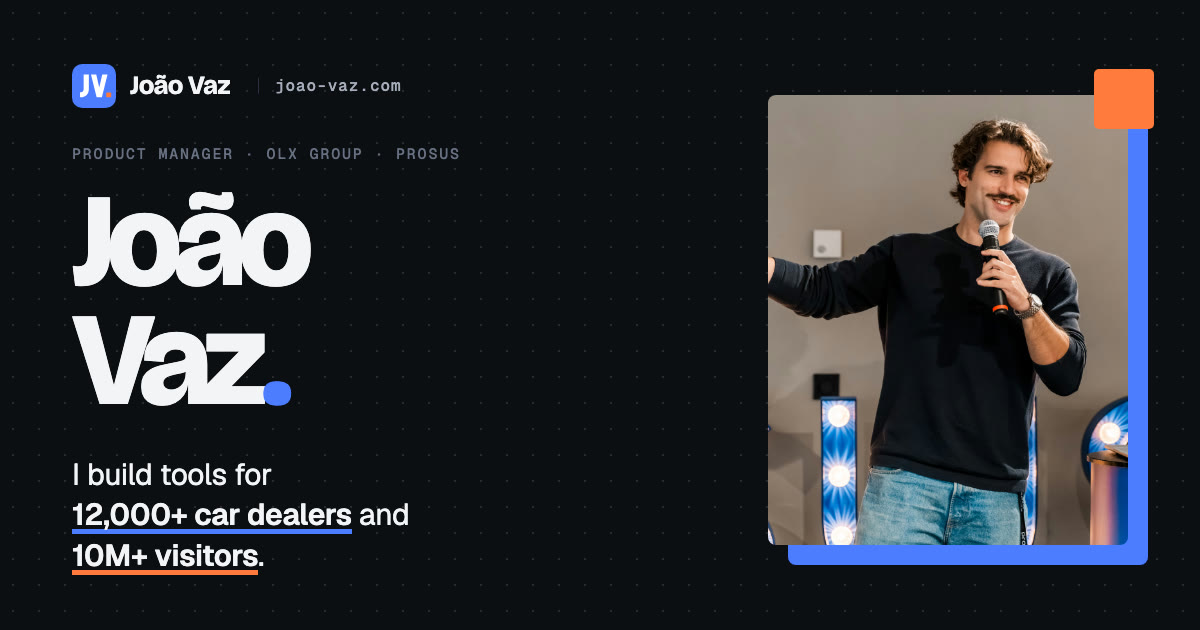
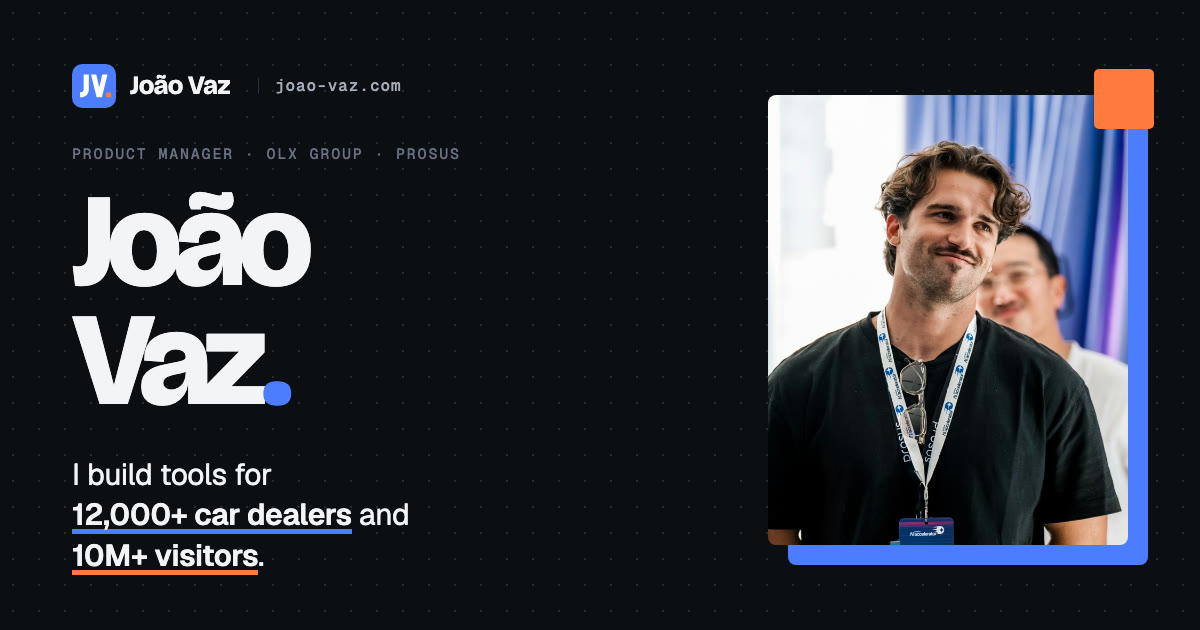
Bring back the portrait photo in the hero, the player card and the share card
The hero, the Side quests player card and og.jpg use assets/portrait.jpg
again instead of the stage photo. The hero caption drops "On stage".
Cache stamp 2026-10-26m.

Changed region(s): [[0.6167, 0.1508, 0.9558, 0.8746]]

diff --git a/index.html b/index.html
@@ -27,7 +27,7 @@
   <link rel="preconnect" href="https://fonts.googleapis.com" />
   <link rel="preconnect" href="https://fonts.gstatic.com" crossorigin />
   <link href="https://fonts.googleapis.com/css2?family=Bricolage+Grotesque:opsz,wght@12..96,500..800&family=Geist:wght@400;500;600&family=Geist+Mono:wght@400;500&display=swap" rel="stylesheet" />
-  <link rel="stylesheet" href="/home.css?v=2026-10-26l" />
+  <link rel="stylesheet" href="/home.css?v=2026-10-26m" />
   <!-- Motion is opt-in: every animated state is gated on .js, so the page
        renders finished if the scripts never run. -->
   <script>
@@ -117,9 +117,9 @@
         </div>
         <figure class="hero__photo rv">
           <div class="hero__frame">
-            <img src="/assets/joao-stage.jpg" alt="João Vaz on stage with a microphone at the Prosus AI Accelerator in Amsterdam" width="1120" height="1400" fetchpriority="high" />
+            <img src="/assets/portrait.jpg" alt="Portrait of João Vaz with a Prosus AI Accelerator lanyard" width="675" height="900" fetchpriority="high" />
           </div>
-          <figcaption class="meta">On stage · Prosus AI Accelerator · Amsterdam 2026</figcaption>
+          <figcaption class="meta">Prosus AI Accelerator · Amsterdam 2026</figcaption>
         </figure>
       </div>
 
@@ -539,7 +539,7 @@
       <h2 class="quests__title" id="quests-title">Side quests <em>for when the laptop closes.</em></h2>
 
       <div class="player">
-        <img class="player__img" src="/assets/joao-stage.jpg" alt="" width="1120" height="1400" loading="lazy" />
+        <img class="player__img" src="/assets/portrait.jpg" alt="" width="675" height="900" loading="lazy" />
         <div class="player__info">
           <p class="meta">Player one</p>
           <h3>João Vaz</h3>
@@ -672,7 +672,7 @@
     <span class="eggs" data-eggs hidden>Easter eggs found: <b>0</b> / 4</span>
   </footer>
 
-  <script src="/js/scroll.js?v=2026-10-26l"></script>
-  <script src="/js/home.js?v=2026-10-26l"></script>
+  <script src="/js/scroll.js?v=2026-10-26m"></script>
+  <script src="/js/home.js?v=2026-10-26m"></script>
 </body>
 </html>

diff --git a/pm-os/index.html b/pm-os/index.html
@@ -27,9 +27,9 @@
   <link rel="preconnect" href="https://fonts.googleapis.com" />
   <link rel="preconnect" href="https://fonts.gstatic.com" crossorigin />
   <link href="https://fonts.googleapis.com/css2?family=Bricolage+Grotesque:opsz,wght@12..96,500..800&family=Geist:wght@400;500;600&family=Geist+Mono:wght@400;500&display=swap" rel="stylesheet" />
-  <link rel="stylesheet" href="/home.css?v=2026-10-26l" />
-  <link rel="stylesheet" href="/project.css?v=2026-10-26l" />
-  <link rel="stylesheet" href="/pm-os.css?v=2026-10-26l" />
+  <link rel="stylesheet" href="/home.css?v=2026-10-26m" />
+  <link rel="stylesheet" href="/project.css?v=2026-10-26m" />
+  <link rel="stylesheet" href="/pm-os.css?v=2026-10-26m" />
   <script>
     document.documentElement.className += " js";
     /* the theme is set before the first paint: a saved choice, else the
@@ -306,8 +306,8 @@
     <span>PM-OS · a wiki that maintains itself</span>
     <span class="eggs" data-eggs hidden>Easter eggs found: <b>0</b> / 4</span>
   </footer>
-  <script src="/js/scroll.js?v=2026-10-26l"></script>
-  <script src="/js/home.js?v=2026-10-26l"></script>
-  <script src="/js/graph.js?v=2026-10-26l"></script>
+  <script src="/js/scroll.js?v=2026-10-26m"></script>
+  <script src="/js/home.js?v=2026-10-26m"></script>
+  <script src="/js/graph.js?v=2026-10-26m"></script>
 </body>
 </html>

diff --git a/team-context/index.html b/team-context/index.html
@@ -27,9 +27,9 @@
   <link rel="preconnect" href="https://fonts.googleapis.com" />
   <link rel="preconnect" href="https://fonts.gstatic.com" crossorigin />
   <link href="https://fonts.googleapis.com/css2?family=Bricolage+Grotesque:opsz,wght@12..96,500..800&family=Geist:wght@400;500;600&family=Geist+Mono:wght@400;500&display=swap" rel="stylesheet" />
-  <link rel="stylesheet" href="/home.css?v=2026-10-26l" />
-  <link rel="stylesheet" href="/project.css?v=2026-10-26l" />
-  <link rel="stylesheet" href="/team-context.css?v=2026-10-26l" />
+  <link rel="stylesheet" href="/home.css?v=2026-10-26m" />
+  <link rel="stylesheet" href="/project.css?v=2026-10-26m" />
+  <link rel="stylesheet" href="/team-context.css?v=2026-10-26m" />
   <script>
     document.documentElement.className += " js";
     /* the theme is set before the first paint: a saved choice, else the
@@ -228,7 +228,7 @@
     <span>Team-context MCP · read-only by design</span>
     <span class="eggs" data-eggs hidden>Easter eggs found: <b>0</b> / 4</span>
   </footer>
-  <script src="/js/scroll.js?v=2026-10-26l"></script>
-  <script src="/js/home.js?v=2026-10-26l"></script>
+  <script src="/js/scroll.js?v=2026-10-26m"></script>
+  <script src="/js/home.js?v=2026-10-26m"></script>
 </body>
 </html>

diff --git a/tabiya/index.html b/tabiya/index.html
@@ -27,9 +27,9 @@
   <link rel="preconnect" href="https://fonts.googleapis.com" />
   <link rel="preconnect" href="https://fonts.gstatic.com" crossorigin />
   <link href="https://fonts.googleapis.com/css2?family=Bricolage+Grotesque:opsz,wght@12..96,500..800&family=Geist:wght@400;500;600&family=Geist+Mono:wght@400;500&display=swap" rel="stylesheet" />
-  <link rel="stylesheet" href="/home.css?v=2026-10-26l" />
-  <link rel="stylesheet" href="/project.css?v=2026-10-26l" />
-  <link rel="stylesheet" href="/tabiya.css?v=2026-10-26l" />
+  <link rel="stylesheet" href="/home.css?v=2026-10-26m" />
+  <link rel="stylesheet" href="/project.css?v=2026-10-26m" />
+  <link rel="stylesheet" href="/tabiya.css?v=2026-10-26m" />
   <script>
     document.documentElement.className += " js";
     /* the theme is set before the first paint: a saved choice, else the
@@ -339,7 +339,7 @@
     <span>Tabiya · a chess coach that explains</span>
     <span class="eggs" data-eggs hidden>Easter eggs found: <b>0</b> / 4</span>
   </footer>
-  <script src="/js/scroll.js?v=2026-10-26l"></script>
-  <script src="/js/home.js?v=2026-10-26l"></script>
+  <script src="/js/scroll.js?v=2026-10-26m"></script>
+  <script src="/js/home.js?v=2026-10-26m"></script>
 </body>
 </html>

diff --git a/home.css b/home.css
@@ -1029,7 +1029,7 @@ html:has(.quests[open]) { overflow: hidden; }
   border: 1px solid var(--line);
   border-radius: 12px;
 }
-.player__img { width: 132px; height: 132px; object-fit: cover; object-position: 58% 16%; border-radius: 8px; }
+.player__img { width: 132px; height: 132px; object-fit: cover; object-position: 50% 20%; border-radius: 8px; }
 .player h3 { margin: 4px 0 10px; font-family: var(--display); font-weight: 700; font-size: 30px; letter-spacing: -0.04em; }
 .player__class { display: grid; gap: 4px; margin-bottom: 14px; }
 .player__class div { display: flex; gap: 10px; font-size: 14px; }

diff --git a/README.md b/README.md
@@ -247,8 +247,10 @@ dev-server.py     # no-cache static server for development
 `js/scroll.js` must load before any script that consumes `window.Scroll`. It builds `SECTION_IDS`
 from the page's own `data-nav` links, so each page declares its sections in its markup.
 
-`styles.css`, `js/ui.js`, `js/scene.js`, `js/icons.js`, `js/carousel.js` and `assets/portrait.jpg`
-belong to the older glass design. No page loads them any more.
+`styles.css`, `js/ui.js`, `js/scene.js`, `js/icons.js` and `js/carousel.js` belong to the older
+glass design. No page loads them any more. The photo of me is `assets/portrait.jpg` (the hero, the
+Side quests player card and the share card `og.jpg`); `assets/joao-stage.jpg`, the stage photo it
+replaced, is not loaded either.
 
 ## Rules to keep
 
